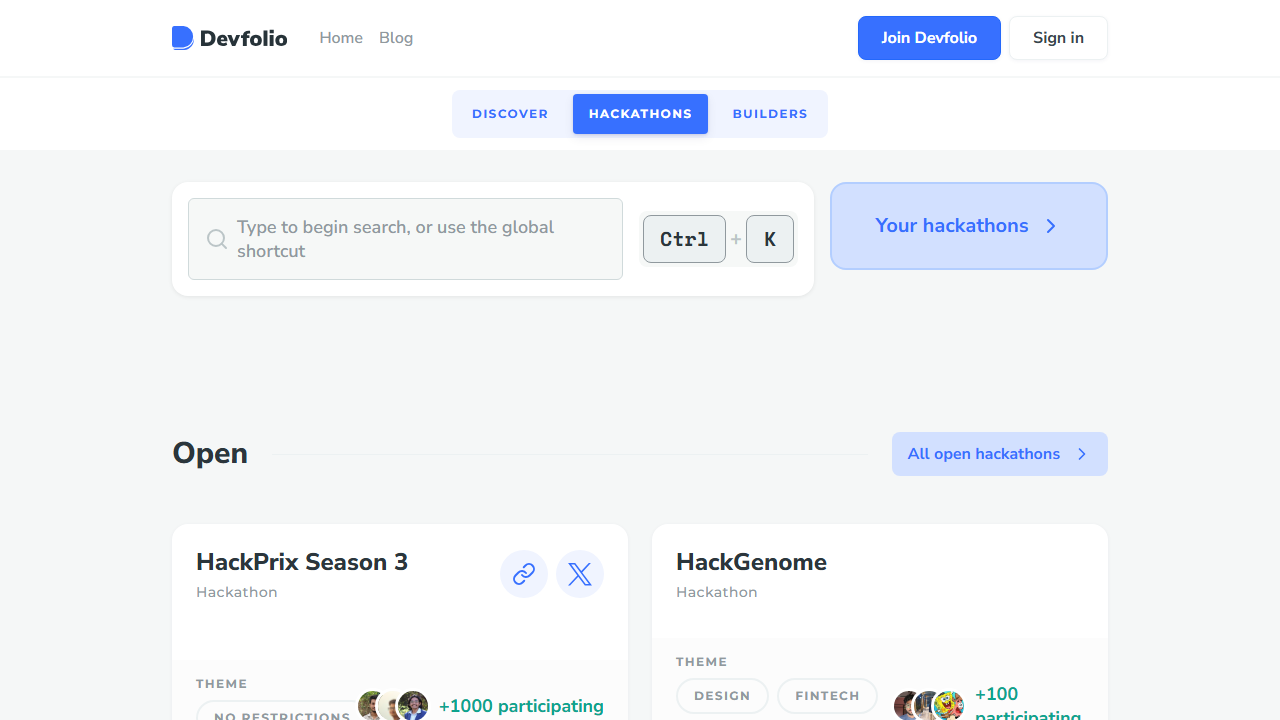
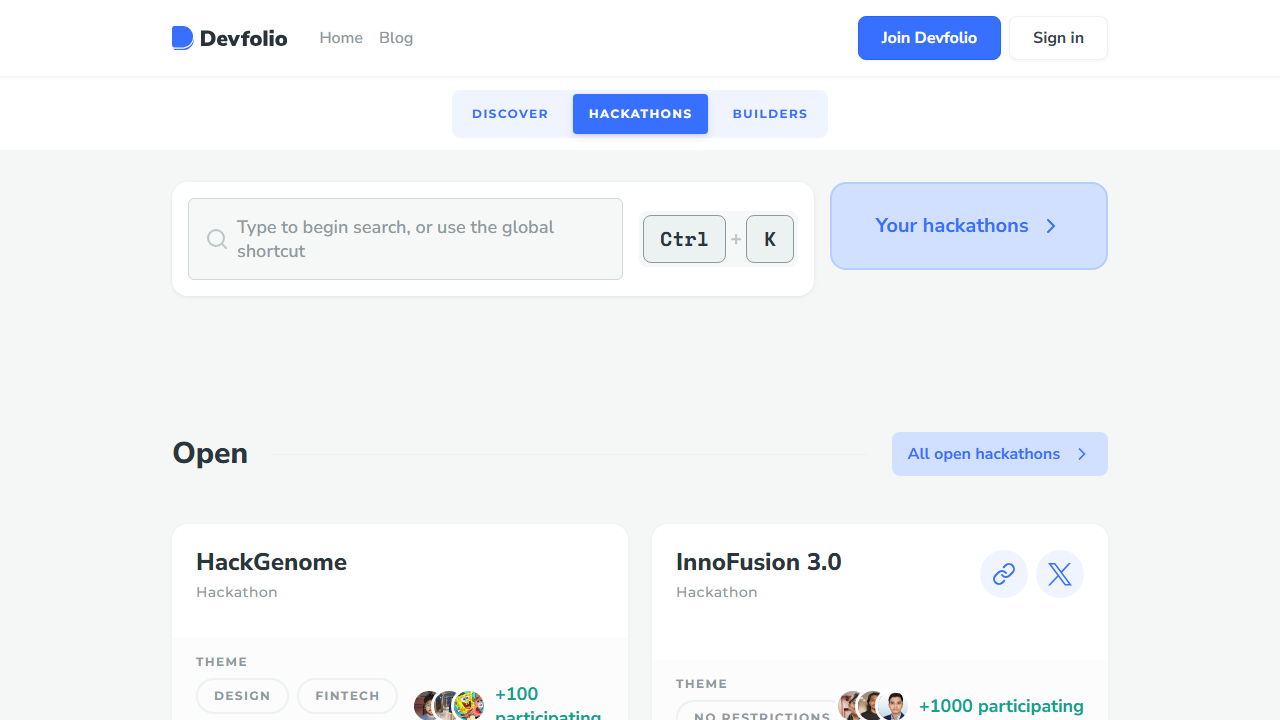
Added personalized multi-user filtering

diff --git a/bot/notifier.py b/bot/notifier.py
@@ -3,33 +3,62 @@ import requests
 
 from dotenv import load_dotenv
 
+
 load_dotenv()
 
 BOT_TOKEN = os.getenv("BOT_TOKEN")
-CHAT_ID = os.getenv("CHAT_ID")
+from db.store import (
+    get_users,
+    get_filters
+)
 
 
 def send_message(hackathon):
-    text = (
-        f"🚀 *New Hackathon*\n\n"
-        f"*{hackathon['name']}*\n"
-        f"Deadline: {hackathon['deadline']}\n"
-        f"Source: {hackathon['source']}\n\n"
-        f"{hackathon['link']}"
+
+    users = get_users()
+
+    for chat_id in users:
+
+        filters = get_filters(chat_id)
+
+        if filters and not matches_filters(
+            hackathon,
+            filters
+        ):
+            continue
+
+        text = (
+            f"🚀 *New Hackathon*\n\n"
+            f"*{hackathon['name']}*\n"
+            f"Deadline: {hackathon['deadline']}\n"
+            f"Source: {hackathon['source']}\n\n"
+            f"{hackathon['link']}"
+        )
+
+        url = (
+            f"https://api.telegram.org/"
+            f"bot{BOT_TOKEN}/sendMessage"
+        )
+
+        response = requests.post(
+            url,
+            data={
+                "chat_id": chat_id,
+                "text": text,
+                "parse_mode": "Markdown"
+            },
+            timeout=15
+        )
+
+        response.raise_for_status()
+
+        print(f"[TELEGRAM] Sent to {chat_id}")
+
+def matches_filters(hackathon, filters):
+
+    title = hackathon["name"].lower()
+
+    return any(
+        keyword in title
+        for keyword in filters
     )
-
-    url = f"https://api.telegram.org/bot{BOT_TOKEN}/sendMessage"
-
-    response = requests.post(
-        url,
-        data={
-            "chat_id": CHAT_ID,
-            "text": text,
-            "parse_mode": "Markdown"
-        },
-        timeout=15
-    )
-
-    response.raise_for_status()
-
-    print("[TELEGRAM] Sent")

diff --git a/db/store.py b/db/store.py
@@ -90,3 +90,47 @@ def add_user(chat_id):
     )
 
     conn.commit()
+
+
+def add_filter(chat_id, keyword):
+
+    cursor.execute(
+        """
+        INSERT INTO filters
+        (chat_id, keyword)
+        VALUES (?, ?)
+        """,
+        (
+            str(chat_id),
+            keyword.lower()
+        )
+    )
+
+    conn.commit()
+
+
+def get_filters(chat_id):
+
+    cursor.execute(
+        """
+        SELECT keyword
+        FROM filters
+        WHERE chat_id = ?
+        """,
+        (str(chat_id),)
+    )
+
+    rows = cursor.fetchall()
+
+    return [row[0] for row in rows]
+
+
+def get_users():
+
+    cursor.execute(
+        "SELECT chat_id FROM users"
+    )
+
+    rows = cursor.fetchall()
+
+    return [row[0] for row in rows]

diff --git a/main.py b/main.py
@@ -4,7 +4,6 @@ from fetcher.unstop import UnstopFetcher
 
 from bot.notifier import send_message
 from db.store import get_new_hackathons
-from filters.keywords import matches_keywords
 from logs.logger import log
 
 
@@ -53,18 +52,14 @@ def run_pipeline():
 
     log(f"[NEW] {len(new_items)}")
 
-    filtered = [
-        h for h in new_items
-        if matches_keywords(h)
-    ]
+    for hackathon in new_items:
+        print(hackathon["name"])
 
-    log(f"[FILTERED] {len(filtered)}")
+    log(f"[SENDING] {len(new_items)} to notifier")
 
-    for hackathon in filtered:
+    for hackathon in new_items:
 
         send_message(hackathon)
-
-    log(f"[FILTERED] {len(filtered)} matched keywords")
 
 
 if __name__ == "__main__":

diff --git a/bot/commands.py b/bot/commands.py
@@ -1,5 +1,7 @@
-from db.store import add_user
-
+from db.store import (
+    add_user,
+    add_filter
+)
 
 async def start_command(update, context):
 
@@ -9,4 +11,25 @@ async def start_command(update, context):
 
     await update.message.reply_text(
         "Subscribed successfully."
+    )
+
+
+async def filter_command(update, context):
+
+    chat_id = update.effective_chat.id
+
+    if not context.args:
+
+        await update.message.reply_text(
+            "Usage: /filter ai"
+        )
+
+        return
+
+    keyword = context.args[0].lower()
+
+    add_filter(chat_id, keyword)
+
+    await update.message.reply_text(
+        f"Filter added: {keyword}"
     )

diff --git a/bot/bot_app.py b/bot/bot_app.py
@@ -7,8 +7,10 @@ from telegram.ext import (
     CommandHandler
 )
 
-from bot.commands import start_command
-
+from bot.commands import (
+    start_command,
+    filter_command
+)
 
 load_dotenv()
 
@@ -19,6 +21,10 @@ app = Application.builder().token(BOT_TOKEN).build()
 
 app.add_handler(
     CommandHandler("start", start_command)
+)
+
+app.add_handler(
+    CommandHandler("filter", filter_command)
 )
 
 print("Bot running...")
